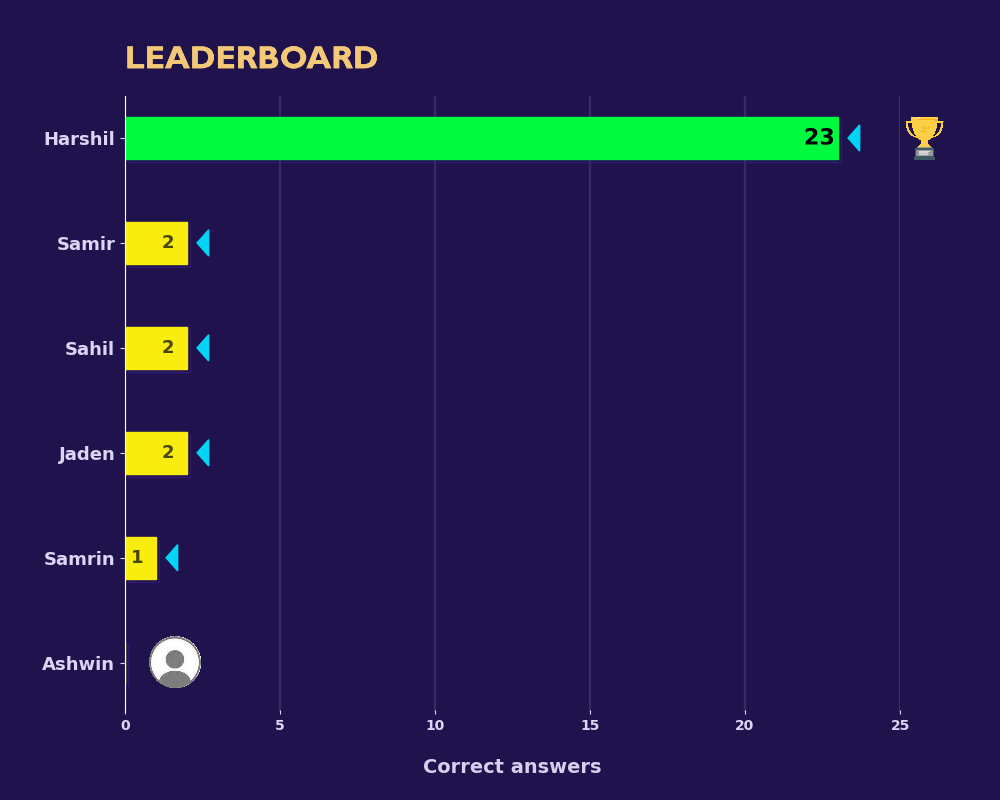
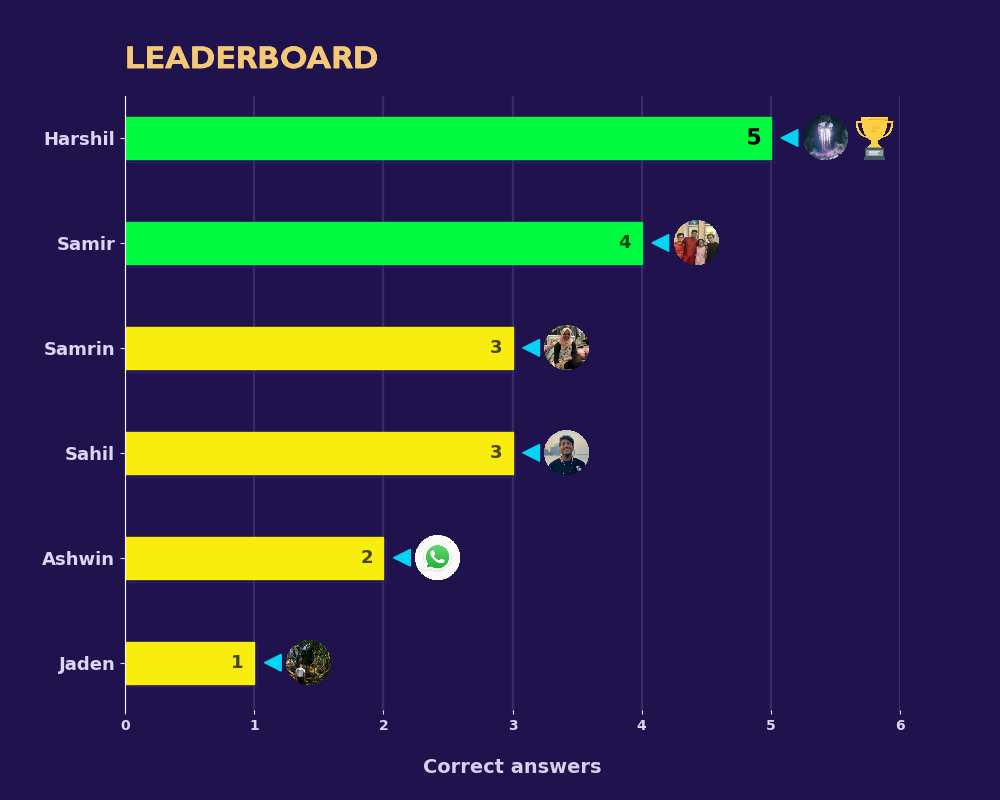
Closed #21 and fixed annotations in bar graph
Inline clips might still be a bit unreliable as the links seem to expire in under a minute

diff --git a/quiz.py b/quiz.py
@@ -79,9 +79,8 @@ def timedout(context: CallbackContext) -> None:
         context.bot.stop_poll(chat_id=chat_id, message_id=quiz.message_id)
 
     context.bot.send_chat_action(chat_id=chat_id, action='upload_photo')
-    
-    # TODO: Don't forget to uncomment this lol-
-    # leaderboard(context)  # Make the leaderboard
+
+    leaderboard(context)  # Make the leaderboard
 
     context.bot.send_photo(chat_id=chat_id, photo=open('leaderboard.png', 'rb'),
                            caption="This is where you stand like you say")  # Send latest leaderboard
@@ -117,7 +116,6 @@ def receive_answer(update: Update, context: CallbackContext) -> None:
     for quiz in quizzes:
         if quiz.poll.id == update.poll_answer.poll_id:
             correct_answer = quiz.poll.correct_option_id
-            chat_id = quiz.chat.id
             break
     else:  # Only happens when /quizizz quiz was answered.
         return
@@ -164,12 +162,15 @@ def pp(update: Update, context: CallbackContext) -> str:
 
 
 def round_pic() -> None:
-    """Helper function to crop all the images in `profile_pics` into circular ones since it looks better."""
+    """
+    Helper function to crop all the images in `profile_pics` into circular ones since it looks better.
+    Receives files in .jpg format and saves it in .png format.
+    """
 
     # Open the input image as numpy array, convert to RGB
     for name in os.listdir(f"{cwd}/profile_pics"):
 
-        if name in ("nobody.png", "trophy.png"):
+        if name in ("nobody.png", "trophy.png"):  # We don't want to touch these, they're already round
             continue
 
         img = Image.open(f"profile_pics/{name}").convert("RGB")
@@ -196,7 +197,7 @@ def round_pic() -> None:
         print("DOne")
 
 
-def add_image(name: str, x: float or int, y: int, offset: float = 1.6, zoom: float = 0.23) -> AnnotationBbox:
+def add_image(name: str, x: float or int, y: int, offset: float, zoom: float = 0.20) -> AnnotationBbox:
     """
     Adds the given image to the bar graph, with the given specifications.
 
@@ -217,21 +218,21 @@ def add_image(name: str, x: float or int, y: int, offset: float = 1.6, zoom: flo
     return AnnotationBbox(image_box, (x + offset, y), frameon=False, annotation_clip=False)
 
 
-def leaderboard() -> None:
+def leaderboard(context) -> None:
     """
     Makes a horizontal bar graph using data from the quiz. The list is sorted in ascending order. Thus, the person
     with the highest marks is displayed at the top. The leaderboard is then saved in the current working directory.
     """
-    # round_pic()  # Make sure all pics are round before starting
+    round_pic()  # Make sure all pics are round before starting
 
-    # names, vals = [], []
-    #
-    # for stuff in context.bot_data['quizizz'].values():
-    #     names.append(stuff['name'])
-    #     vals.append(stuff['answers_right'])
+    names, vals = [], []
 
-    names = ["Harshil", "Samir", "Sahil", "Samrin", "Ashwin", "Jaden"]
-    vals = [23, 2, 2, 1, 0, 2]
+    for stuff in context.bot_data['quizizz'].values():
+        names.append(stuff['name'])
+        vals.append(stuff['answers_right'])
+
+    # names = ["Harshil", "Samir", "Sahil", "Samrin", "Ashwin", "Jaden"]
+    # vals = [5, 4, 3, 3, 2, 1]
 
     mean = sum(vals) / len(vals)  # Gets average for color sorting later
     vals, names = zip(*sorted(zip(vals, names)))  # Sorts both lists correspondingly in ascending order. Returns tuples
@@ -256,8 +257,9 @@ def leaderboard() -> None:
             size = 16
             weight = 'bold'
             alpha = 1  # alpha controls transparency
+            trophy_scale = 0.16 * max(vals)  # Value obtained by experimenting
             effects = [patheffects.SimpleLineShadow(shadow_color='black', alpha=0.95), patheffects.Normal()]
-            ab = add_image("trophy", marks, index, offset=2.8, zoom=0.034)
+            ab = add_image("trophy", marks, index, offset=trophy_scale, zoom=0.034)
             ax.add_artist(ab)  # Draws annotation
 
         else:
@@ -268,7 +270,7 @@ def leaderboard() -> None:
 
         if marks > mean:
             color = '#00FA3F'   # Set bar color to green if guy got above avg marks
-        elif marks <= mean - 10:
+        elif marks <= mean - 5:
             color = '#FA1D07'  # Set bar color to red if guy got really bad marks
         else:
             color = '#F8ED0F'  # Set bar color to yellow if guy got below avg marks
@@ -276,14 +278,19 @@ def leaderboard() -> None:
         barlist[index].set_color(color)  # Sets bar color
 
         if marks != 0:  # Don't draw arrow and marks if he got a big fat ZERO.
-            plt.arrow(marks + 0.7, index, -0.001, 0, head_width=0.25, color='#02D4F5')
-            plt.text(marks - 0.6, index, str(marks), color="#000000", verticalalignment='center',
+            text_scale = 0.026 * max(vals)  # Another experimental value
+            plt.text(marks - text_scale, index, str(marks), color="#000000", verticalalignment='center',
                      fontdict={'weight': weight, 'size': size, 'fontfamily': 'DejaVu Sans'}, ha='center', alpha=alpha,
                      path_effects=effects)  # Puts marks on the bars near the end
 
-        # Add profile pic next to arrows-  (Disabled for now)
-        # ab = add_image(name, marks, index)
-        # ax.add_artist(ab)
+        arrow_scale = max(vals) * 0.016
+        ax.annotate("", xy=(marks+arrow_scale, index), xytext=(marks+0.001+arrow_scale, index),
+                    xycoords='data', arrowprops={'color': '#02D4F5'},
+                    annotation_clip=False)
+        # Add profile pic next to arrows-
+        image_scale = max(vals) * 0.08375  # Yet another experimental value
+        ab = add_image(name, marks, index, offset=image_scale)
+        ax.add_artist(ab)
 
     # Set x ticks which are only integers, and make it aesthetically pleasing.
     plt.xticks([tick for tick in ax.get_xticks() if tick % 1 == 0], fontweight='demi', fontfamily='DejaVu Sans')
@@ -319,12 +326,12 @@ def leaderboard() -> None:
     plt.savefig("leaderboard.png", facecolor="#20124d")  # Save figure with same 'purple' fig color
 
     for name in os.listdir(f"{cwd}/profile_pics"):
-        if name not in ("nobody.png", "trophy.png"):
+        if name not in ("nobody.png", "trophy.png"):  # These should always be there
             os.remove(f"{cwd}/profile_pics/{name}")
 
     # return
     plt.show()
 
 
-leaderboard()
+# leaderboard()
 # round_pic()

diff --git a/online/util.py b/online/util.py
@@ -1,33 +1,39 @@
 import re
 
 import requests
-from bs4 import BeautifulSoup
+from bs4 import BeautifulSoup, SoupStrainer
 from typing import Tuple
 
-from constants import _LINK, _DOWNLOAD, URL
+from constants import LINK, FACT_URL
 
-dl_links = []
-names = []
+with open('creds/github_token.txt', 'r') as f:
+    token = f.read()
 
-getting = requests.get(_LINK)
-scraped = BeautifulSoup(getting.content, 'html.parser')
-results = scraped.find_all(href=re.compile('/tmslads/Shanisirmodule/blob/master/Assets/clips/'))
+header = {'Authorization': f'token {token}', 'token_type': 'bearer'}
 
 
 def clips() -> Tuple[list, list]:
-    for index, result in enumerate(results):
-        url = f"{_DOWNLOAD}{result['href'].replace('blob/', '')}"
-        name = result['title'][:-4]
-        dl_links.append(url)
-        names.append(name)
+    """Extracts the download links and names from the Shanisirmodule using the Github API."""
+
+    dl_links = []
+    names = []
+    getting = requests.get(LINK, headers=header).json()
+
+    for result in getting:
+        url = result['download_url']
+        name = result['name'][:-4]
+        if url is not None:
+            dl_links.append(url)
+            names.append(name)
+
     return dl_links, names
 
 
 def facts() -> list:
     """Return list of three facts"""
-    page = requests.get(URL)
-    soup = BeautifulSoup(page.content, 'html.parser')
-    result = soup.find_all(id='z')  # Finds HTML elements with ID 'z'
-    facts_list = [result[0].getText()[:-6], result[1].getText()[:-6],
-                  result[2].getText()[:-6]]
+
+    page = requests.get(FACT_URL)
+    results = BeautifulSoup(page.content, 'html.parser', parse_only=SoupStrainer(id='z'))  # Get only z tags
+    facts_list = [str(results.contents[index].contents[0]) for index in range(len(results))]
+
     return facts_list

diff --git a/main.py b/main.py
@@ -345,7 +345,10 @@ def private(update, context, grp=False, the_id=None, isgrp="(PRIVATE)") -> None:
 
 
 def morning_goodness(context: CallbackContext) -> None:
-    """Send a "good morning" quote to the groups, along with a clip"""
+    """
+    Send a "good morning" quote to the groups, along with a clip. This will only work if it has already been a
+    day since last good morning quote and is before 11am the next day.
+    """
 
     right_now = datetime.now()  # returns: Datetime obj
     afternoon = datetime(right_now.year, right_now.month, right_now.day, 11)  # 11am today
@@ -455,6 +458,7 @@ dp.add_handler(CommandHandler(command='quizizz', callback=bc.quizizz))
 dp.add_handler(CommandHandler(command='test', callback=send_quiz))  # TODO: This should be a job
 dp.add_handler(PollAnswerHandler(callback=receive_answer))
 
+
 # /8ball conversation-
 magicball_handler = ConversationHandler(
     entry_points=[
@@ -540,7 +544,8 @@ dp.add_handler(MessageHandler(Filters.command, bc.unknown))
 
 updater.job_queue.run_repeating(bday_wish, 86400, first=1)  # Will run every time script is started, and once a day.
 updater.job_queue.run_repeating(morning_goodness, 86400, first=1)
+updater.job_queue.run_repeating(inline.get_clips, 60, first=1)  # Have to re-fetch clips since links expire
 prettyprintview()
 
-updater.start_polling()
+updater.start_polling(clean=True)
 updater.idle()

diff --git a/inline.py b/inline.py
@@ -7,17 +7,26 @@ from telegram.ext import CallbackContext
 from online import util
 
 results = []
-links, names = util.clips()
+names = []
 
-# Adds all clips and names into one list
-for clip in zip(links, names):
-    results.append(InlineQueryResultAudio(id=uuid4(), audio_url=clip[0], title=clip[1], performer="Shani Sir"))
+
+def get_clips(context: CallbackContext) -> None:
+    global results, names
+
+    results.clear()
+    names.clear()
+    links, names = util.clips()
+
+    # Adds all clips and names into one list
+    for link, name in zip(links, names):
+        results.append(InlineQueryResultAudio(id=uuid4(), audio_url=link, title=name, performer="Shani Sir"))
 
 
 def inline_clips(update: Update, context: CallbackContext) -> None:
     query = update.inline_query.query
     if not query:
-        context.bot.answer_inline_query(update.inline_query.id, results[:50])  # Show first 49 clips if nothing is typed
+        # Show first 49 clips if nothing is typed-
+        context.bot.answer_inline_query(update.inline_query.id, results[:50], cache_time=60)
     else:
         matches = get_close_matches(query, names, n=15, cutoff=0.3)  # Searches for close matches
         index = 0

diff --git a/constants.py b/constants.py
@@ -18,9 +18,8 @@ sql_table = """
             """
 
 # Websites to scrape from-
-_DOWNLOAD = "https://raw.githubusercontent.com"
-_LINK = "https://github.com/tmslads/Shanisirmodule/tree/master/Assets/clips"
-URL = 'http://randomfactgenerator.net/'  # To be scraped for facts()
+LINK = "https://api.github.com/repos/tmslads/shanisirmodule/contents/Assets/clips"
+FACT_URL = 'http://randomfactgenerator.net/'  # To be scraped for facts()
 QUIZ_URL = "https://www.onlinegk.com/general-knowledge/gk-question-answers/physics"
 
 # Bot usernames-
